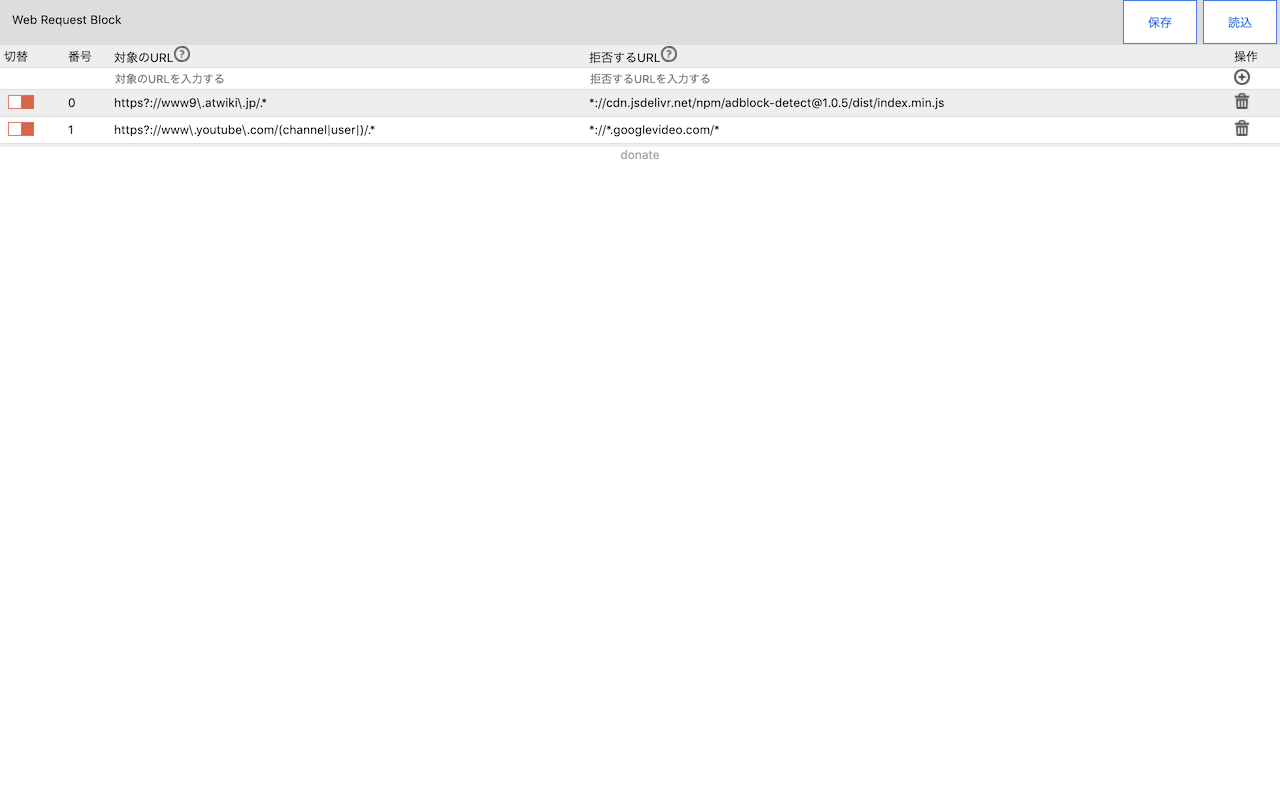
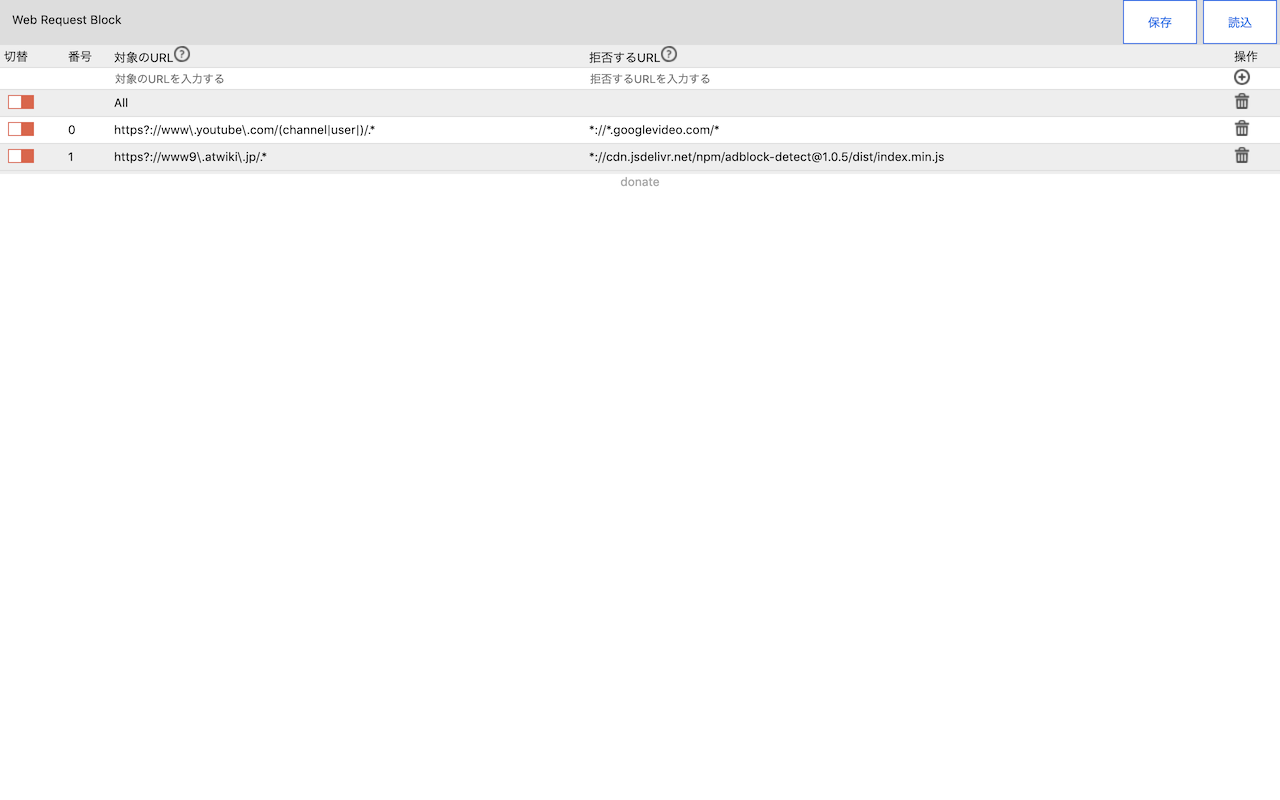
update Ver 1.1.0

diff --git a/options/options.js b/options/options.js
@@ -5,15 +5,19 @@ function init(){
     if(savedata == null){
         savedata = {options:{}, blockList:[]};
     }
+    savedata["options"]["flag"] &= ~bgPage.FLAG_ALL.TRASH;
     var blockList = savedata["blockList"];
     // trash remove
-    for(var i=0;i<blockList.length;i++){
-        if((blockList[i]["flag"] & bgPage.FLAG_EACH.TRASH) !=0){
-            bgPage.removeBlockEvent(i);
-            blockList.splice(i,1);
+    for(var i=0,d=0,l=blockList.length;i<l;i++){
+        console.log(blockList);
+        if((blockList[i-d]["flag"] & bgPage.FLAG_EACH.TRASH) !=0){
+            bgPage.removeBlockEvent(i-d);
+            blockList.splice(i-d,1);
+            d++;
         }
         bgPage.blockListUpdate(blockList);
     }
+    localStorage.setItem("savedata", JSON.stringify(savedata));
 
     initList(blockList);
     // save button {{{
@@ -68,7 +72,7 @@ function init(){
 
 function initList(blockList){
     var savedata = JSON.parse(localStorage.getItem("savedata"));
-    var list_title = ["", "番号", "対象のURL", "拒否するURL", "操作"];
+    var list_title = ["切替", "番号", "対象のURL", "拒否するURL", "操作"];
     var list_title_question = ["", "", "https://developer.mozilla.org/ja/docs/Web/JavaScript/Guide/Regular_Expressions", "https://developer.mozilla.org/ja/docs/Mozilla/Add-ons/WebExtensions/Match_patterns", ""];
     var listTable = document.createElement("table");
     listTable.setAttribute("id", "listTable");
@@ -96,33 +100,9 @@ function initList(blockList){
         }
     });
     // cbxAll}}}
-    // toggle All {{{
-    tdHead["toggle"] = {};
-    tdHead["toggle"]["cell"] = tdHead["row"].insertCell(-1);
-    tdHead["toggle"]["input"] = document.createElement("input");
-    tdHead["toggle"]["input"].setAttribute("type", "checkbox");
-    tdHead["toggle"]["input"].setAttribute("id", "toggleAll");
-    tdHead["toggle"]["input"].setAttribute("class", "toggle");
-    tdHead["toggle"]["input"].setAttribute("name", "toggleAll");
-    tdHead["toggle"]["input"].setAttribute("value", "1");
-
-    tdHead["toggle"]["label"] = document.createElement("label");
-    tdHead["toggle"]["label"].htmlFor = "toggleAll";
-
-    tdHead["toggle"]["cell"].appendChild(tdHead["toggle"]["input"]);
-    tdHead["toggle"]["cell"].appendChild(tdHead["toggle"]["label"]);
-
-    tdHead["toggle"]["input"].checked = savedata["options"]["toggleAll"];
-    tdHead["toggle"]["input"].addEventListener("click", function (){
-        var savedata = JSON.parse(localStorage.getItem("savedata"));
-        savedata["options"]["toggleAll"] = tdHead["toggle"]["input"].checked;
-        localStorage.setItem("savedata", JSON.stringify(savedata));
-        bgPage.currentTabActiveIcon();
-    });
-    // toggle All }}}
 
     var questionLink = [];
-    for(var i=1;i<list_title.length;i++){
+    for(var i=0;i<list_title.length;i++){
         questionLink[i] = {};
         questionLink[i]["cell"] = tdHead["row"].insertCell(-1);
         questionLink[i]["cell"].appendChild(document.createTextNode(list_title[i]));
@@ -182,14 +162,95 @@ function initList(blockList){
         refreshList(blockList);
     });
     // add area }}}
-    // table body }}}
-    refreshList(blockList);
+    // all area {{{
+    var tdAll = {};
+    tdAll["row"] = listTable.insertRow(-1);
+    // cbxAll{{{
+    tdAll["cbxAll"] = {};
+    tdAll["cbxAll"]["cell"] = tdAll["row"].insertCell(-1);
+    tdAll["cbxAll"]["input"] = document.createElement("input");
+    tdAll["cbxAll"]["input"].setAttribute("type", "checkbox");
+    tdAll["cbxAll"]["input"].setAttribute("id", "cbxAll");
+    tdAll["cbxAll"]["input"].setAttribute("name", "cbxAll");
+    tdAll["cbxAll"]["input"].setAttribute("value", "1");
+
+    tdAll["cbxAll"]["cell"].appendChild(tdAll["cbxAll"]["input"]);
+    tdAll["cbxAll"]["input"].addEventListener("click", function (){
+        var cbxList = document.getElementsByClassName("cbxList");
+        for(var i=0;i<cbxList.length;i++){
+            cbxList[i].checked = document.getElementById("cbxAll").checked;
+        }
+    });
+    // cbxAll}}}
+    // toggle All {{{
+    tdAll["toggle"] = {};
+    tdAll["toggle"]["cell"] = tdAll["row"].insertCell(-1);
+    tdAll["toggle"]["input"] = document.createElement("input");
+    tdAll["toggle"]["input"].setAttribute("type", "checkbox");
+    tdAll["toggle"]["input"].setAttribute("id", "toggleAll");
+    tdAll["toggle"]["input"].setAttribute("class", "toggle");
+    tdAll["toggle"]["input"].setAttribute("name", "toggleAll");
+    tdAll["toggle"]["input"].setAttribute("value", "1");
+
+    tdAll["toggle"]["label"] = document.createElement("label");
+    tdAll["toggle"]["label"].htmlFor = "toggleAll";
+
+    tdAll["toggle"]["cell"].appendChild(tdAll["toggle"]["input"]);
+    tdAll["toggle"]["cell"].appendChild(tdAll["toggle"]["label"]);
+
+    tdAll["toggle"]["input"].checked = ((savedata["options"]["flag"] & bgPage.FLAG_ALL.VALID) !=0);
+    tdAll["toggle"]["input"].addEventListener("click", function (){
+        var savedata = JSON.parse(localStorage.getItem("savedata"));
+        //XXX:prototype shift
+        savedata["options"]["flag"] = (savedata["options"]["flag"] & ~bgPage.FLAG_ALL.VALID) | tdAll["toggle"]["input"].checked;
+        localStorage.setItem("savedata", JSON.stringify(savedata));
+        bgPage.currentTabActiveIcon();
+    });
+    // toggle All }}}
+    tdAll["row"].insertCell(-1);
+    tdAll["row"].insertCell(-1).appendChild(document.createTextNode("All"));
+    tdAll["row"].insertCell(-1);
+    // operations {{{
+    tdAll["op"] = {};
+    tdAll["op"]["cell"] = tdAll["row"].insertCell(-1);
+    // trash {{{
+    tdAll["op"]["input"] = document.createElement("input");
+    tdAll["op"]["input"].setAttribute("type", "image");
+    tdAll["op"]["input"].setAttribute("src", "trash.png");
+    tdAll["op"]["input"].setAttribute("id", "delList");
+
+    tdAll["op"]["input"].setAttribute("src", "trash.png");
+    tdAll["op"]["cell"].appendChild(tdAll["op"]["input"]);
+    tdAll["op"]["input"].addEventListener("click", function (){
+        var savedata = JSON.parse(localStorage.getItem("savedata"));
+        var blockList = savedata["blockList"];
+        savedata["options"]["flag"] ^= bgPage.FLAG_ALL.TRASH;
+        if((savedata["options"]["flag"] & bgPage.FLAG_ALL.TRASH) == 0){
+            tdAll["op"]["input"].setAttribute("src", "trash.png");
+            tdAll["row"].setAttribute("style", "color:#000;");
+        }else{
+            tdAll["op"]["input"].setAttribute("src", "back.png");
+            tdAll["row"].setAttribute("style", "color:#ccc;");
+        }
+        for(var i=0;i<blockList.length;i++){
+            blockList[i]["flag"] = (blockList[i]["flag"] & ~bgPage.FLAG_EACH.TRASH) | ((((savedata["options"]["flag"] & bgPage.FLAG_ALL.TRASH) != 0)?1:0) << 1);
+        }
+        localStorage.setItem("savedata", JSON.stringify(savedata));
+        bgPage.blockListUpdate(blockList);
+        refreshList(blockList);
+    });
+    // trash }}}
+    // operations }}}
+// added list }}}
+// all area }}}
+// table body }}}
+refreshList(blockList);
 }
 
 function refreshList(blockList){
     var listTable = document.getElementById("listTable");
-    while(listTable.rows[2]){
-        listTable.deleteRow(2);
+    while(listTable.rows[3]){
+        listTable.deleteRow(3);
     }
     // added list {{{
     var tdList = [];
@@ -257,10 +318,6 @@ function refreshList(blockList){
         tdList[i]["op"]["cell"].appendChild(tdList[i]["op"]["input"]);
         (function (i){
             tdList[i]["op"]["input"].addEventListener("click", function (){
-                /*
-                bgPage.removeBlockEvent(i);
-                blockList.splice(i,1);
-                */
                 var savedata = JSON.parse(localStorage.getItem("savedata"));
                 var blockList = savedata["blockList"];
                 blockList[i]["flag"] ^= bgPage.FLAG_EACH.TRASH;

diff --git a/background.js b/background.js
@@ -3,6 +3,10 @@ var FLAG_EACH = {
     "VALID": 1<<0,
     "TRASH": 1<<1
 };
+var FLAG_ALL = {
+    "VALID": 1<<0,
+    "TRASH": 1<<1
+};
 init();
 
 function init(){
@@ -11,8 +15,8 @@ function init(){
     if(savedata == null){
         savedata = {options:{}, blockList:[]};
     }
-    if(typeof(savedata["options"]["toggleAll"]) == "undefined"){
-        savedata["options"]["toggleAll"] = true;
+    if(typeof(savedata["options"]["flag"]) == "undefined"){
+        savedata["options"]["flag"] = 1;
     }
     localStorage.setItem("savedata", JSON.stringify(savedata));
     var blockList = savedata["blockList"];
@@ -31,7 +35,7 @@ function addBlockEvent(i){
             listEvent[i] = function (details){
                 var savedata= JSON.parse(localStorage.getItem("savedata"));
                 var blockList = savedata["blockList"];
-                if((savedata["options"]["toggleAll"] == true) && ((blockList[i]["flag"] & FLAG_EACH.TRASH) == 0)){
+                if(((savedata["options"]["flag"] & FLAG_ALL.VALID) != 0) && ((blockList[i]["flag"] & FLAG_EACH.TRASH) == 0)){
                     var srcUrl = new RegExp(blockList[i]["src"]);
                     if(srcUrl.test(tabs[details.tabId].url)){
                         if((blockList[i]["flag"] & FLAG_EACH.VALID) != 0){
